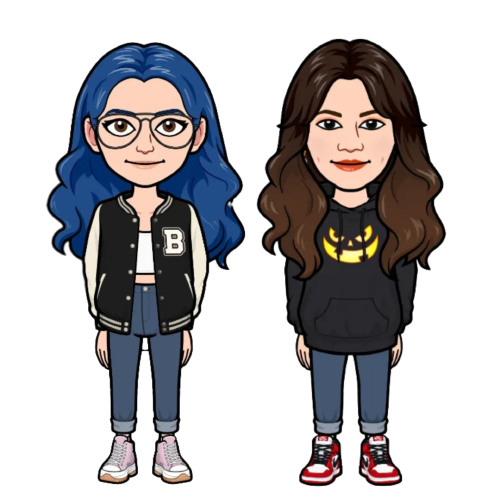
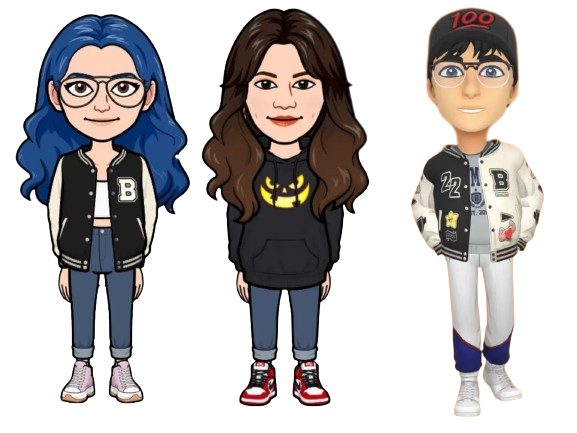
加了大志

diff --git a/src/views/user/Application.vue b/src/views/user/Application.vue
@@ -18,12 +18,6 @@
           </el-select>
         </el-form-item>
 
-
-        <el-form-item label="经办人" label-width="150px">
-          <el-input v-model="applicationForm.identity" clearable>
-          </el-input>
-        </el-form-item>
-
         <el-form-item label="课题组" label-width="150px">
           <el-select v-model="applicationForm.group" placeholder="请选择您所在的课题组" size="large"
                      style="width: 100%" clearable>
@@ -35,6 +29,13 @@
             />
           </el-select>
         </el-form-item>
+
+        <el-form-item label="经办人" label-width="150px">
+          <el-input v-model="applicationForm.identity" clearable>
+          </el-input>
+        </el-form-item>
+
+
         <el-form-item label="您选择经费的课题组" label-width="150px">
           <el-tag type="primary" size="large">总额度为 {{ totalMoney }} 万元</el-tag>
           <el-tag type="success" size="large">已使用额度为 {{ usedMoney }} 万元</el-tag>

diff --git a/src/views/administrator/GroupManagement.vue b/src/views/administrator/GroupManagement.vue
@@ -24,6 +24,7 @@
         </div>
 
         <div style="flex-basis: 25%">
+          <h3>经费使用情况</h3>
         </div>
         <div style="flex-basis: 25%">
         </div>
